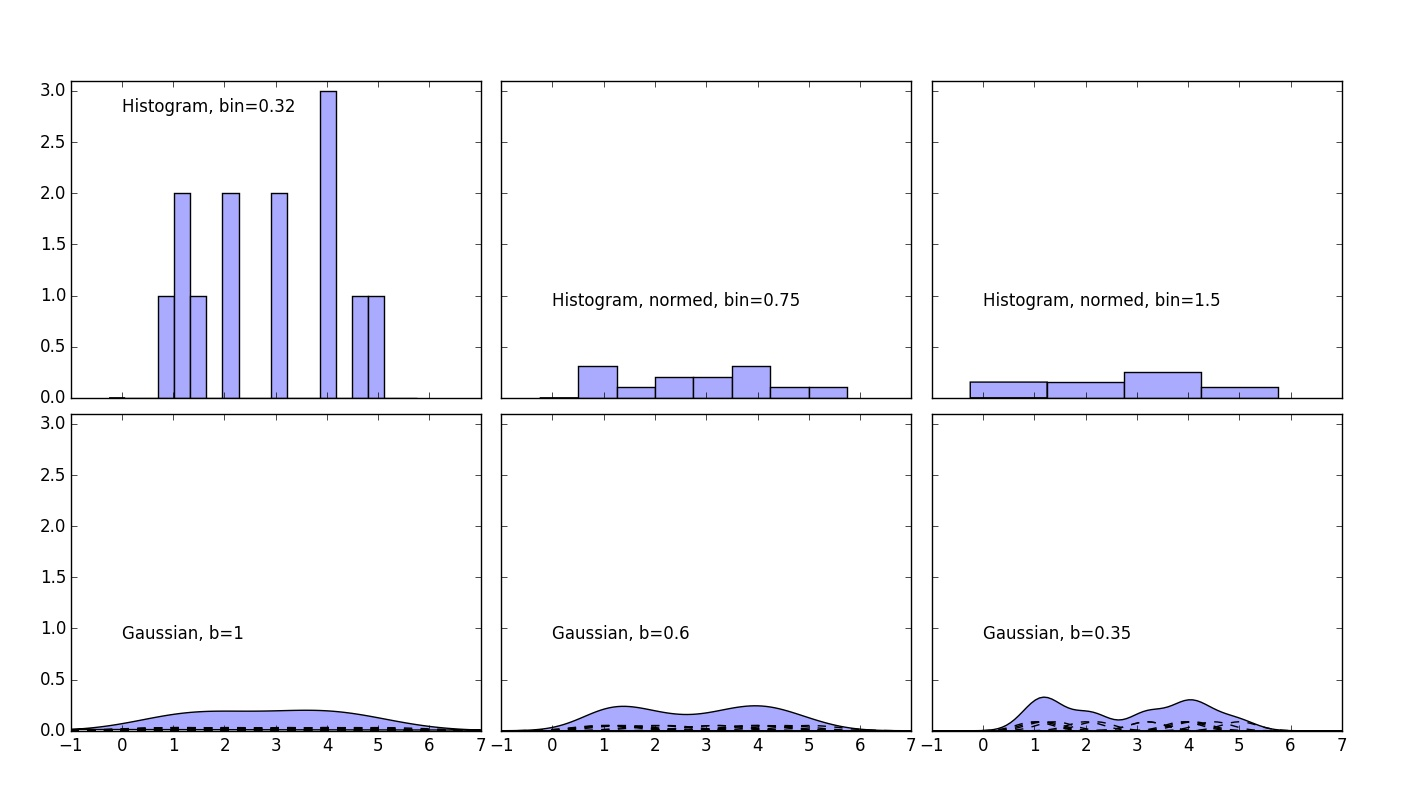
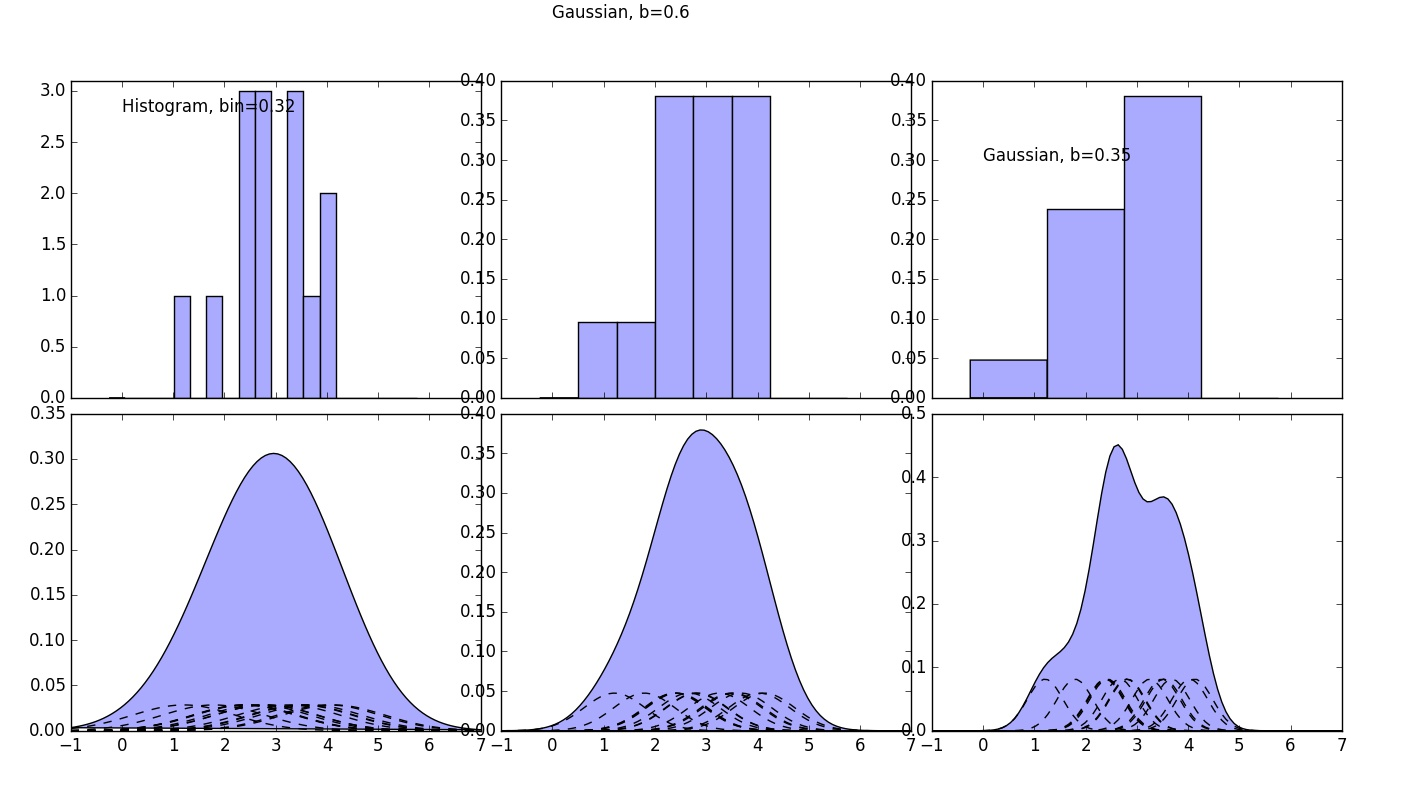
s

diff --git a/KDE_many_points.py b/KDE_many_points.py
@@ -6,7 +6,7 @@ def gaussian(x,b=1):
     return np.exp(-x**2/(2*b**2))/(b*np.sqrt(2*np.pi))
 
 #Let's take any value
-X=np.array([2.2, 3.9, 2, 1, 4, 5, 4.5, 3.2, 1.2, 1.1, 4.1, 1.4, 3.2])
+X=np.random.normal(2.5, 0.9, 14)
 N=len(X)
 # Plot all available kernels
 X_plot = np.linspace(-1, 7, 100)[:, None]
